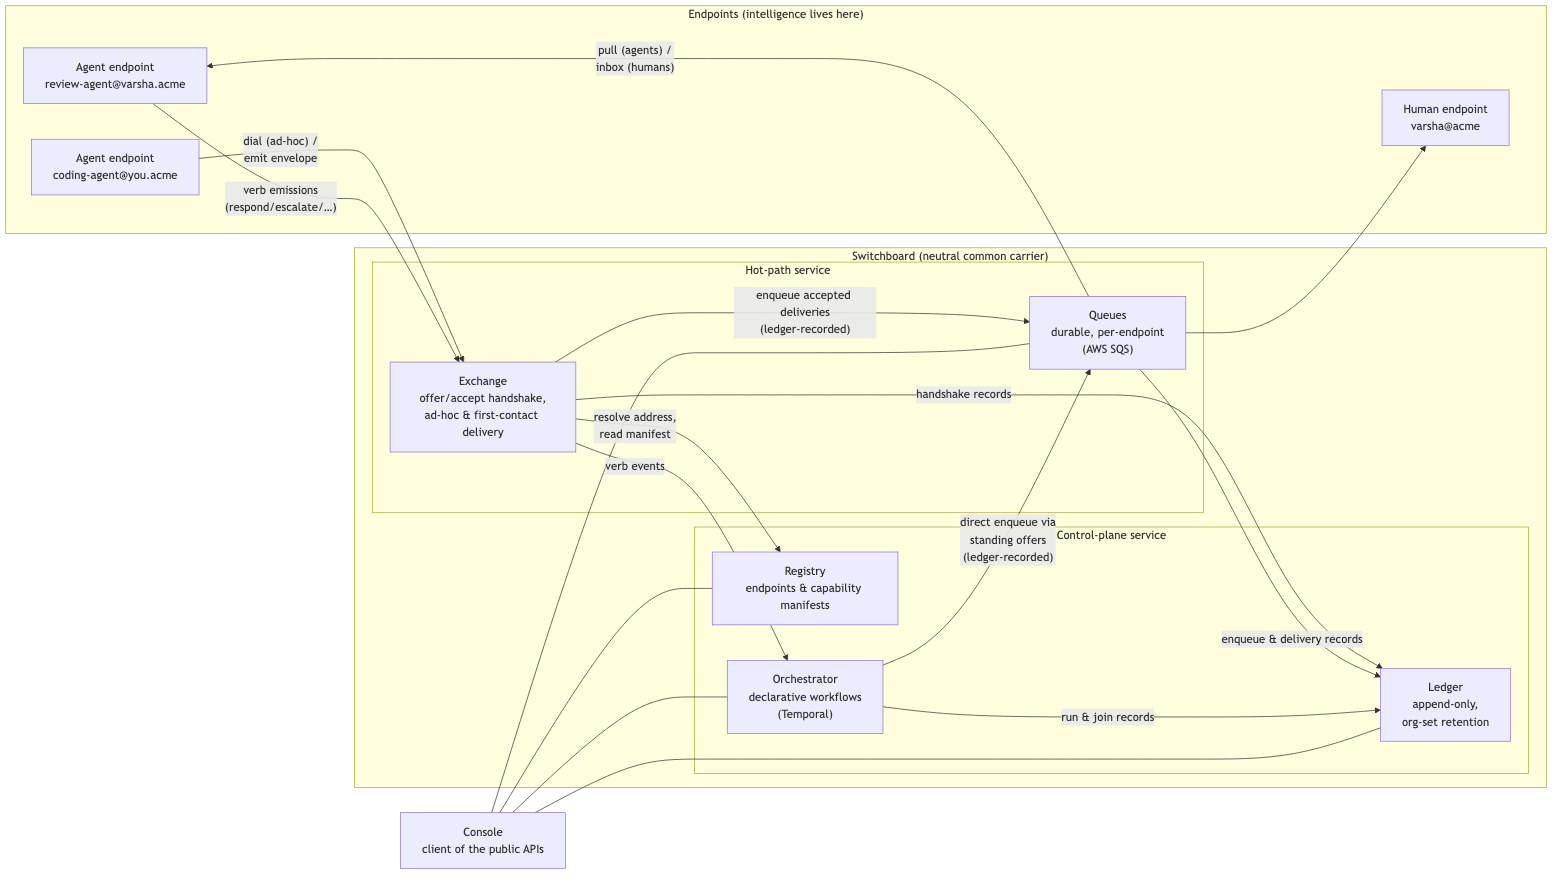
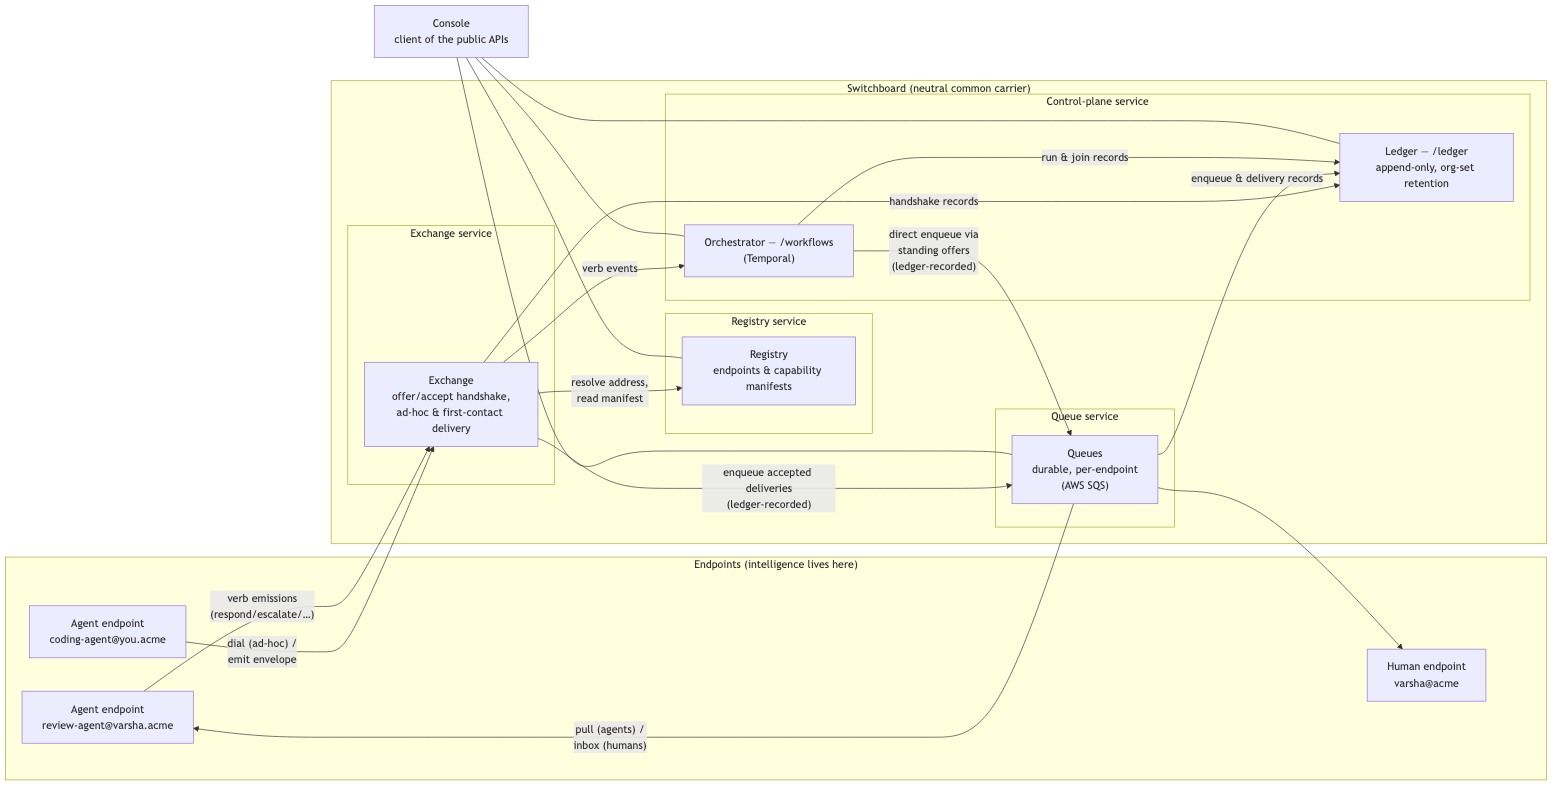
Address PR review: reshape deployment to four services
Per review feedback on PR #1: Exchange, Queues, and Registry each
become standalone services; the control-plane service hosts the
Orchestrator (/workflows) and Ledger (/ledger) as separate API paths.
Topology diagram redrawn and re-rendered; stack table and decision
log amended accordingly.

diff --git a/docs/architecture.md b/docs/architecture.md
@@ -37,11 +37,11 @@ These were settled through iteration and constrain every component design below.
 
 ## 3. Component architecture — five components, one substrate
 
-Switchboard is five logical components on one substrate, deployed in v0 as two services — a **hot-path service** (Exchange + Queues, the high-traffic delivery path) and a **control-plane service** (Registry, Orchestrator, Ledger) — see §9. Component boundaries are logical contracts, not necessarily process boundaries.
+Switchboard is five logical components on one substrate, deployed in v0 as **four services**: the **Exchange service**, the **Queue service**, and the **Registry service** each stand alone, and a single **control-plane service** hosts the Orchestrator and Ledger behind separate API paths (`/workflows`, `/ledger`) — see §9. Component boundaries are logical contracts, not necessarily process boundaries.
 
 ### 3.1 Topology
 
-![System topology: endpoints at the edges, the hot-path service (Exchange, Queues) and control-plane service (Registry, Orchestrator, Ledger) inside the switchboard, and the Console as a client](diagrams/topology.png)
+![System topology: endpoints at the edges; inside the switchboard the Exchange, Queue, and Registry services stand alone, and the control-plane service hosts the Orchestrator and Ledger API paths; the Console is a client](diagrams/topology.png)
 
 <sub>Diagram source: [diagrams/topology.mmd](diagrams/topology.mmd)</sub>
 
@@ -215,7 +215,7 @@ Locked above: the logical boundaries, the envelope contract, the handshake, and 
 
 | Choice | Default | Rationale |
 |---|---|---|
-| Deployment shape | **Two services**: hot path (Exchange + Queues) and control plane (Registry + Orchestrator + Ledger) | Isolates the high-traffic delivery path from the stateful control plane; boundaries within each service stay module contracts, splittable further along the same seams. |
+| Deployment shape | **Four services**: Exchange, Queues, and Registry each stand alone; one control-plane service hosts Orchestrator (`/workflows`) and Ledger (`/ledger`) as separate API paths | Each hot-path concern (handshaking, delivery) and the read-heavy Registry scale independently; the lower-traffic Orchestrator and Ledger share one deployable behind distinct paths. |
 | System of record | **PostgreSQL** for registry, ledger (append-only tables with retention policy), and workflow metadata | One durable substrate for state; the ledger-write-before-enqueue ordering (§3.4) keeps "complete by construction" honest. |
 | Queue mechanics | **AWS SQS**, one queue per endpoint | Managed, pay-per-use (effectively free at v0 volume), no broker to operate. Couples the reference deployment to AWS — accepted for v0; abstraction seam for self-hosters is an open question (§10). |
 | Endpoint protocol | HTTPS + JSON. Offers pushed via signed webhook (with long-poll fallback); agents pull queues; humans via console/inbox | Lowest integration bar for agent developers; handshake timeout = implicit decline maps cleanly onto webhook semantics. |
@@ -256,5 +256,5 @@ Ratified in the stakeholder walkthrough on **2026-07-12** (reviewer: Mohit Gupta
 | 3 | Delivery topology | **Changed** — the Orchestrator enqueues directly for standing-offer workflow calls; ledger completeness enforced at the queue-write chokepoint (§3.4) instead of "Exchange is sole path". |
 | 4 | Artifact custody | **Confirmed** — references + digests only; bodies never stored in the switchboard. |
 | 5 | Security | **Confirmed** (a) per-endpoint credentials, switchboard as trust broker; (b) single-org v0. **Changed** (c) ledger append-only *plus* org-configurable retention window, replacing "never deleted, ever". |
-| 6 | Reference stack | **Changed** — two services (hot path / control plane); AWS SQS for queues; Temporal for workflows. Postgres system of record and HTTPS/JSON + signed-webhook protocol unchanged. |
+| 6 | Reference stack | **Changed** — AWS SQS for queues; Temporal for workflows. Postgres system of record and HTTPS/JSON + signed-webhook protocol unchanged. Deployment shape initially two services (hot path / control plane); **amended 2026-07-15 in PR #1 review** to four services — Exchange, Queues, and Registry standalone, control plane hosting Orchestrator + Ledger as API paths. |
 | 7 | Console | **Confirmed** — a client of the public APIs, not a sixth component; no privileged back door. |
